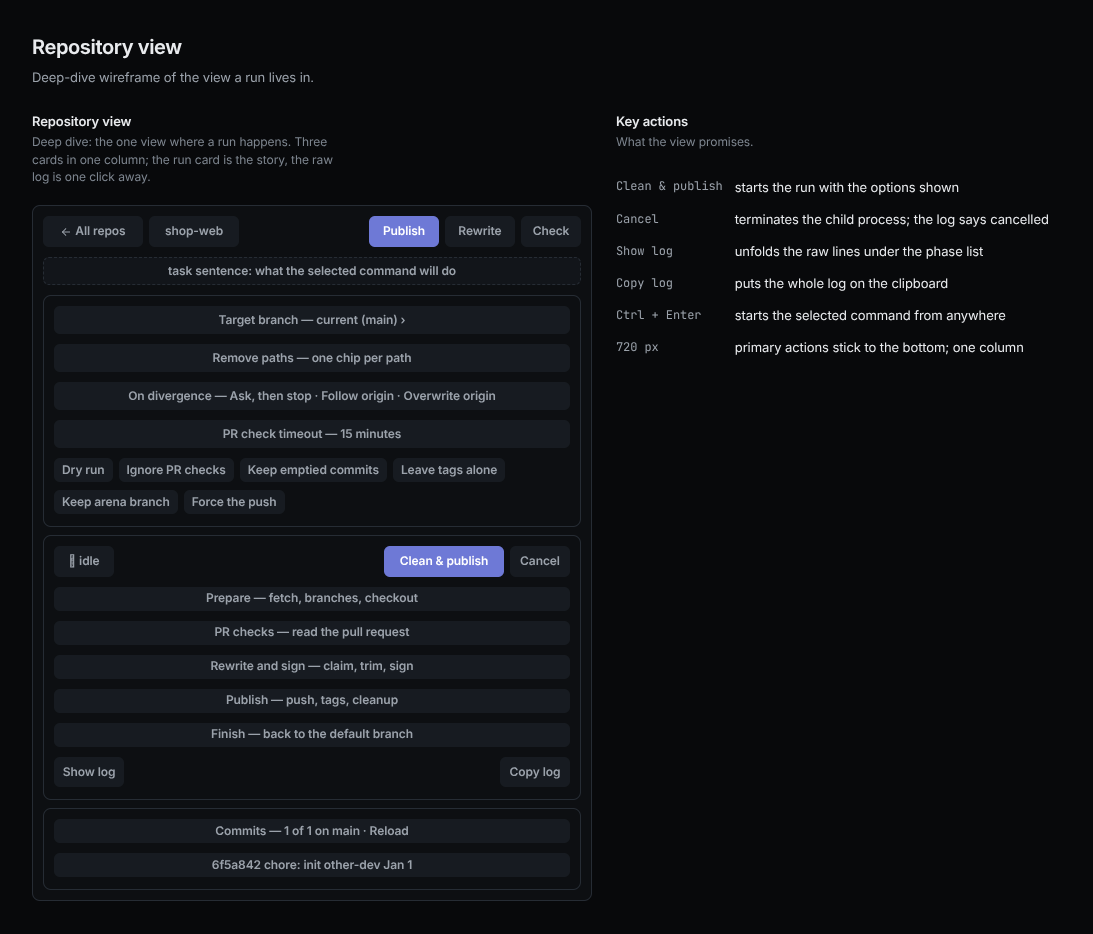
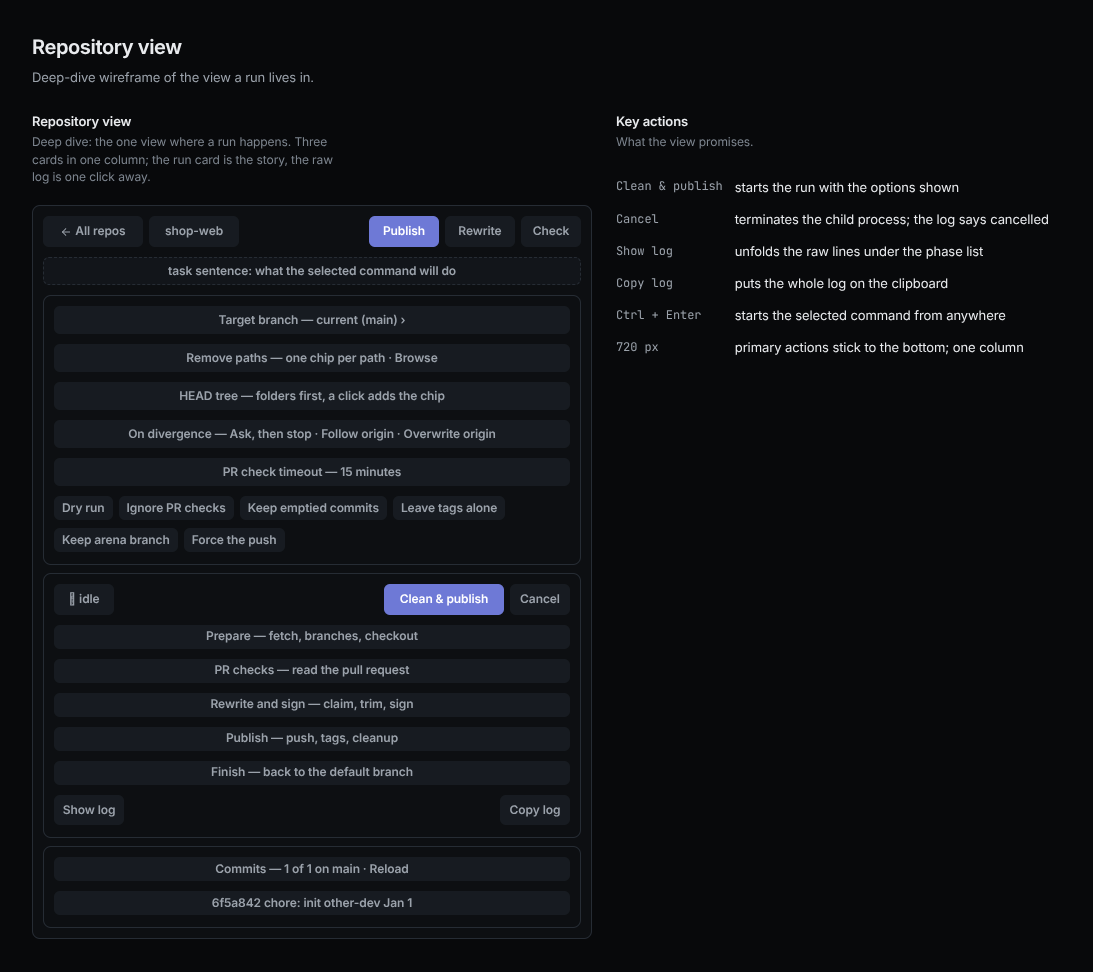
feat(ui): add a tree selector for Remove paths

diff --git a/ui/static/index.html b/ui/static/index.html
@@ -351,6 +351,20 @@
   .chip-x { display: inline-flex; align-items: center; gap: 6px; border: 1px solid var(--line-2); background: var(--surface-3); border-radius: 6px; padding: 2px 4px 2px 8px; font: var(--fs-1) var(--mono); }
   .chip-x button { border: 0; background: none; color: var(--dim); cursor: pointer; padding: 0 3px; font-size: var(--fs-3); line-height: 1; }
   .chip-x button:hover { color: var(--err); }
+  .link-btn { margin-left: auto; border: 0; background: none; padding: 0; color: var(--muted); font: inherit; font-size: var(--fs-1); cursor: pointer; }
+  .link-btn:hover, .link-btn[aria-expanded="true"] { color: var(--text); text-decoration: underline; text-underline-offset: 3px; }
+  /* the path tree: one level of the HEAD tree per request; a row click opens
+     a folder or selects a file, the trailing button selects either */
+  .tree { margin-top: 6px; padding: 4px; max-height: 260px; overflow: auto; border: 1px solid var(--line-2); border-radius: 8px; background: var(--surface-2); font: var(--fs-1) var(--mono); }
+  .tree-row { display: flex; align-items: center; gap: 6px; min-height: 28px; padding: 0 4px 0 calc(4px + (var(--depth) - 1) * 16px); border-radius: 6px; cursor: pointer; color: var(--text); }
+  .tree-row:hover { background: var(--surface-3); }
+  .tree-caret { width: 14px; display: inline-flex; color: var(--dim); transition: transform .12s; }
+  .tree-row[aria-expanded="true"] .tree-caret { transform: rotate(90deg); }
+  .tree-ico { display: inline-flex; color: var(--muted); }
+  .tree-name { overflow: hidden; text-overflow: ellipsis; white-space: nowrap; }
+  .tree-select { margin-left: auto; display: inline-flex; align-items: center; border: 0; background: none; padding: 2px 4px; border-radius: 6px; color: var(--dim); cursor: pointer; }
+  .tree-select:hover, .tree-select[aria-pressed="true"] { color: var(--accent-hi); }
+  .tree-empty { padding: 4px 8px; color: var(--dim); }
 
   .toggles { display: flex; flex-wrap: wrap; gap: 6px; }
   .toggle {
@@ -588,6 +602,8 @@
     .chip-x button { padding: 4px 6px; }
     .chips { min-height: 44px; }
     .chips input { height: 32px; }
+    .tree-row { min-height: 44px; }
+    .tree-select { min-width: 44px; min-height: 44px; justify-content: center; }
 
     /* one scale, enforced: 12 metadata, 13 note, 14 control, 15 body,
        16 field, 19 page title. Anything with its own desktop size is
@@ -671,10 +687,12 @@
               </div>
             </details>
             <div class="opt" id="opt-paths">
-              <div class="opt-label"><label for="pathin">Remove paths</label><span class="desc">git filter-repo, every ref</span></div>
+              <div class="opt-label"><label for="pathin">Remove paths</label><span class="desc">git filter-repo, every ref</span>
+                <button type="button" class="link-btn" id="browse" aria-expanded="false" aria-controls="tree">Browse</button></div>
               <div class="chips" id="chips">
                 <input id="pathin" placeholder="add a file or folder…" spellcheck="false" autocomplete="off" aria-label="Add a path to remove">
               </div>
+              <div class="tree" id="tree" role="tree" aria-label="Files at HEAD" hidden></div>
             </div>
             <div class="opt" id="opt-div">
               <div class="opt-label"><span class="lbl">On divergence</span><span class="desc">local vs origin</span></div>
@@ -810,6 +828,9 @@
     "arrow-up": svg(paths("m5 12 7-7 7 7", "M12 19V5")),
     "arrow-down": svg(paths("M12 5v14", "m19 12-7 7-7-7")),
     "chevron-right": svg(paths("m9 18 6-6-6-6")),
+    folder: svg(paths("M20 20a2 2 0 0 0 2-2V8a2 2 0 0 0-2-2h-7.9a2 2 0 0 1-1.69-.9L9.6 3.9A2 2 0 0 0 7.93 3H4a2 2 0 0 0-2 2v13a2 2 0 0 0 2 2Z")),
+    file: svg(paths("M6 22a2 2 0 0 1-2-2V4a2 2 0 0 1 2-2h8a2.4 2.4 0 0 1 1.704.706l3.588 3.588A2.4 2.4 0 0 1 20 8v12a2 2 0 0 1-2 2z", "M14 2v5a1 1 0 0 0 1 1h5")),
+    plus: svg(paths("M5 12h14", "M12 5v14")),
     check: svg(paths("M20 6 9 17l-5-5")),
     x: svg(paths("M18 6 6 18", "m6 6 12 12")),
     "triangle-alert": svg(paths("m21.73 18-8-14a2 2 0 0 0-3.48 0l-8 14A2 2 0 0 0 4 21h16a2 2 0 0 0 1.73-3", "M12 9v4", "M12 17h.01")),
@@ -1059,6 +1080,7 @@
     state.repo = repo;
     state.branch = "";
     state.paths = [];
+    closeTree();
     $("repo-title").textContent = repo.name;
     renderSidebar();
     renderBranchSelect();
@@ -1188,6 +1210,64 @@
         } }, icon("x")));
       box.insertBefore(chip, $("pathin"));
     }
+    for (const btn of $("tree").querySelectorAll(".tree-select")) {
+      const on = state.paths.includes(btn.closest(".tree-row").dataset.path);
+      btn.setAttribute("aria-pressed", String(on));
+      btn.replaceChildren(icon(on ? "check" : "plus"));
+    }
+  }
+
+  // -- Path tree: the HEAD tree of the open repository, one level per request
+  function closeTree() {
+    $("tree").hidden = true;
+    $("tree").replaceChildren();
+    $("browse").setAttribute("aria-expanded", "false");
+  }
+
+  function togglePath(path) {
+    state.paths = state.paths.includes(path) ? state.paths.filter((x) => x !== path) : [...state.paths, path];
+    renderPaths();
+    renderCommand();
+  }
+
+  async function treeLevel(container, rel, depth) {
+    const query = rel ? `?path=${encodeURIComponent(rel)}` : "";
+    const data = await api(`/api/repos/${state.repo.id}/tree${query}`);
+    container.replaceChildren(...data.entries.map((entry) =>
+      treeRow(entry, rel ? `${rel}/${entry.name}` : entry.name, depth)));
+    if (!data.entries.length) container.append(el("div", { class: "tree-empty" }, "empty"));
+    renderPaths();
+  }
+
+  function treeRow(entry, path, depth) {
+    const dir = entry.type === "dir";
+    const row = el("div", { class: "tree-row", role: "treeitem", tabindex: "0", "aria-level": String(depth),
+        "data-path": path, style: `--depth:${depth}`,
+        onkeydown: (e) => { if (e.key === "Enter" || e.key === " ") { e.preventDefault(); row.click(); } } },
+      el("span", { class: "tree-caret" }, dir ? icon("chevron-right") : ""),
+      el("span", { class: "tree-ico" }, icon(dir ? "folder" : "file")),
+      el("span", { class: "tree-name" }, entry.name),
+      el("button", { type: "button", class: "tree-select", "aria-label": `Remove ${path}`, "aria-pressed": "false",
+        onclick: (e) => { e.stopPropagation(); togglePath(path); } }, icon("plus")));
+    const node = el("div", { class: "tree-node" }, row);
+    if (!dir) {
+      row.onclick = () => togglePath(path);
+      return node;
+    }
+    let kids = null;
+    row.setAttribute("aria-expanded", "false");
+    row.onclick = async () => {
+      const open = row.getAttribute("aria-expanded") === "true";
+      row.setAttribute("aria-expanded", String(!open));
+      if (open) { kids.hidden = true; return; }
+      if (!kids) {
+        kids = el("div", { class: "tree-kids", role: "group" });
+        node.append(kids);
+        try { await treeLevel(kids, path, depth + 1); } catch (err) { toast(err.message); }
+      }
+      kids.hidden = false;
+    };
+    return node;
   }
 
   function payload() {
@@ -1938,6 +2018,15 @@
 
   $("branch").onchange = (ev) => { state.branch = ev.target.value; renderSidebar(); renderCommand(); };
 
+  $("browse").onclick = async () => {
+    const tree = $("tree");
+    const open = tree.hidden;
+    tree.hidden = !open;
+    $("browse").setAttribute("aria-expanded", String(open));
+    if (open && !tree.childElementCount) {
+      try { await treeLevel(tree, "", 1); } catch (err) { toast(err.message); closeTree(); }
+    }
+  };
   $("pathin").onkeydown = (ev) => {
     if (ev.key === "Enter" && ev.target.value.trim()) {
       ev.preventDefault();

diff --git a/scripts/demo.py b/scripts/demo.py
@@ -151,26 +151,26 @@ MAIN_HISTORY = [
   ("feat: project skeleton", "app.py", OTHER),
   ("docs: usage notes", "README.md", OTHER),
   ("feat: config loading", "config.py", ME),
-  ("test: config loading", "tests.py", ME),
+  ("test: config loading", "tests/test_config.py", ME),
   ("fix: empty config file", "config.py", OTHER),
   ("feat: command line entry", "cli.py", OTHER),
   ("refactor: split the modules", "app.py", ME),
-  ("ci: add the workflow", "ci.yml", OTHER),
+  ("ci: add the workflow", ".github/workflows/ci.yml", OTHER),
   ("fix: windows paths", "config.py", ME),
   ("feat: structured logging", "log.py", OTHER),
   ("docs: configuration reference", "README.md", OTHER),
   ("chore: bump the dependencies", "pyproject.toml", OTHER),
-  ("fix: flaky timing test", "tests.py", ME),
+  ("fix: flaky timing test", "tests/test_config.py", ME),
 ]
 # the arena branch: one session of mixed authorship, with bodies to trim
 BRANCH_HISTORY = [
   ("feat: external contribution\n\nbody the human wrote", "docs.md", OTHER),
   ("feat: agent work\n\nlong body that should be trimmed", "app.py", AGENT),
   ("fix: mine already fine", "app.py", ME),
-  ("chore: bot cleanup\n\nanother body to trim", "tests.py", BOT),
+  ("chore: bot cleanup\n\nanother body to trim", "tests/test_config.py", BOT),
   ("feat: checkout form\n\nscaffolded from the issue", "checkout.py", AGENT),
   ("fix: review feedback", "checkout.py", OTHER),
-  ("test: checkout form\n\ngenerated cases", "tests.py", AGENT),
+  ("test: checkout form\n\ngenerated cases", "tests/test_checkout.py", AGENT),
   ("style: format the module", "app.py", BOT),
   ("docs: checkout notes", "docs.md", ME),
 ]
@@ -178,7 +178,7 @@ BRANCH_HISTORY = [
 SECOND_HISTORY = [
   ("feat: retry policy\n\nagent notes", "retry.py", AGENT),
   ("fix: batch size off by one", "retry.py", OTHER),
-  ("test: retry policy\n\ngenerated cases", "tests.py", BOT),
+  ("test: retry policy\n\ngenerated cases", "tests/test_retry.py", BOT),
 ]
 SESSIONS = [BRANCH_HISTORY, SECOND_HISTORY]
 # what main gains after the session, when the repository asks for it
@@ -383,6 +383,7 @@ def make_origin(
   days = itertools.count()
 
   def commit(message: str, file: str, who: tuple[str, str]) -> None:
+    (work / file).parent.mkdir(parents=True, exist_ok=True)
     with (work / file).open("a") as fh:
       fh.write(message.splitlines()[0] + "\n")
     run("git", "add", file, cwd=work, env=env)

diff --git a/ui/server.py b/ui/server.py
@@ -581,6 +581,41 @@ def commits_report(repo: dict[str, Any], limit: int = 30) -> dict[str, Any]:
   }
 
 
+def tree_report(repo: dict[str, Any], rel: str) -> dict[str, Any] | None:
+  """One level of the HEAD tree under `rel`, directories first.
+
+  The path tree reads the clone, not GitHub, so a path repository works
+  too. HEAD is the tree the owner sees; a path that only old commits carried
+  stays a typed chip. None means git knows no such directory.
+  """
+  parts = [part for part in rel.split("/") if part]
+  if any(part in (".", "..") for part in parts) or "\x00" in rel:
+    raise ValueError(rel)
+  rel = "/".join(parts)
+  rc, out, _ = run_cmd(["git", "ls-tree", "-z", "-l", f"HEAD:{rel}"], cwd=repo["path"])
+  if rc != 0:
+    return None
+  types = {"tree": "dir", "blob": "file", "commit": "submodule"}
+  entries = []
+  for record in out.split("\0"):
+    if "\t" not in record:
+      continue
+    meta, name = record.split("\t", 1)
+    fields = meta.split()
+    if len(fields) != 4:
+      continue
+    mode, obj_type, _sha, size = fields
+    entries.append(
+      {
+        "name": name,
+        "type": "link" if mode == "120000" else types.get(obj_type, obj_type),
+        "size": int(size) if size.isdigit() else 0,
+      }
+    )
+  entries.sort(key=lambda e: (e["type"] != "dir", e["name"].lower()))
+  return {"path": rel, "entries": entries}
+
+
 def signing_report() -> dict[str, Any]:
   keys = secret_keys()
   git_name = global_config("user.name")
@@ -1111,6 +1146,16 @@ class Handler(BaseHTTPRequestHandler):
         except ValueError:
           limit = 30
         self._json(commits_report(repo, limit))
+      elif len(parts) == 4 and parts[:2] == ["api", "repos"] and parts[3] == "tree":
+        repo = self._repo(parts[2])
+        query = urllib.parse.parse_qs(
+          self.path.split("?", 1)[1] if "?" in self.path else ""
+        )
+        tree = tree_report(repo, query.get("path", [""])[0])
+        if tree is None:
+          self._error("no such directory", 404)
+        else:
+          self._json(tree)
       elif path == "/api/auth":
         self._json(auth_report())
       elif path == "/healthz":

diff --git a/tests/test_ui.py b/tests/test_ui.py
@@ -532,3 +532,44 @@ def test_the_commit_list_and_the_page_shell(ui: UI, ids: dict[str, str]) -> None
   assert not re.search(
     r'cmdpreview|id="cmdline"|id="emptystate"|oneclick-mobile|cmdswitch|data-cmd=', page
   ), "the removed command strip and switch"
+
+
+TREE_FILES = {"docs/guide.md": "# guide\n", "notes.txt": "notes\n"}
+
+
+def test_the_tree_route_lists_one_level_of_head(
+  ui: UI, world: World, ids: dict[str, str]
+) -> None:
+  for rel, text in TREE_FILES.items():
+    target = world.work / rel
+    target.parent.mkdir(parents=True, exist_ok=True)
+    target.write_text(text)
+  world.git("add", "-A")
+  world.commit(
+    "other-dev", "other@example.com", "2024-01-06T10:00:00+08:00", "docs: a tree\n"
+  )
+  repo = ids["repo"]
+
+  root = ui.get(f"/api/repos/{repo}/tree")
+  assert root["path"] == ""
+  names = [e["name"] for e in root["entries"]]
+  assert names.index("docs") < names.index("notes.txt"), "directories sort first"
+  types = {e["name"]: e["type"] for e in root["entries"]}
+  assert types["docs"] == "dir"
+  assert types["notes.txt"] == "file"
+  sizes = {e["name"]: e["size"] for e in root["entries"]}
+  assert sizes["notes.txt"] == len(TREE_FILES["notes.txt"])
+
+  docs = ui.get(f"/api/repos/{repo}/tree?path=/docs/")
+  assert docs["path"] == "docs"
+  assert [(e["name"], e["type"]) for e in docs["entries"]] == [("guide.md", "file")]
+
+  assert ui.status("GET", f"/api/repos/{repo}/tree?path=..") == 400
+  assert ui.status("GET", f"/api/repos/{repo}/tree?path=docs/../..") == 400
+  assert ui.status("GET", f"/api/repos/{repo}/tree?path=nope") == 404
+  assert ui.status("GET", f"/api/repos/{repo}/tree?path=notes.txt") == 404
+  assert ui.status("GET", "/api/repos/deadbeef1234/tree") == 404
+
+  page = ui.text("/")
+  assert 'id="browse"' in page
+  assert 'id="tree" role="tree"' in page

diff --git a/scripts/walk.py b/scripts/walk.py
@@ -370,6 +370,21 @@ def keyboard_backspace_removes_a_chip(w: Walker, demo: Demo) -> None:
 
 
 @step("desktop")
+def tree_selector_adds_a_folder_chip(w: Walker, demo: Demo) -> None:
+  w.click("#browse", 500)
+  assert w.count("#tree .tree-row") > 0
+  w.click(".tree-row[aria-expanded] >> nth=0", 500)
+  assert w.count(".tree-kids .tree-row") > 0
+  w.click(".tree-row[aria-expanded] >> nth=0 >> .tree-select", 300)
+  assert w.count(".chip-x") == 1
+  assert w.count('.tree-select[aria-pressed="true"]') == 1
+  w.click(".chip-x button >> nth=0", 300)
+  assert w.count('.tree-select[aria-pressed="true"]') == 0
+  w.click("#browse", 300)
+  assert w.page.is_hidden("#tree")
+
+
+@step("desktop")
 def timeout_input_drives_check_timeout(w: Walker, demo: Demo) -> None:
   w.page.fill("#timeout", "5")
   w.page.dispatch_event("#timeout", "input")

diff --git a/scripts/design_boards.py b/scripts/design_boards.py
@@ -318,7 +318,8 @@ def flow_board(_: dict[str, bytes]) -> str:
 def wireframe_board(_: dict[str, bytes]) -> str:
   options = (
     block("Target branch — current (main) ›", height=28)
-    + block("Remove paths — one chip per path", height=28)
+    + block("Remove paths — one chip per path · Browse", height=28)
+    + block("HEAD tree — folders first, a click adds the chip", height=28)
     + block(
       "On divergence — Ask, then stop · Follow origin · Overwrite origin", height=28
     )

diff --git a/docs/design.md b/docs/design.md
@@ -28,7 +28,7 @@ The one design record for the arena-cleanup web app. The sections follow the nem
 ## Screens and states
 
 - Dashboard: add bar, repository cards. Empty: a hint with the add command. Error: a banner above the cards. A card shows the branch, `N uncommitted` only when the clone is dirty, and the drift. The Remove X sits top right as a bare glyph. A red frame comes on hover, on press, and while armed.
-- Repository: options card, run card with the phase list and log, commits card. The page runs the full flow only; `strip` is a CLI command. Log rows show the clock of the browser. Remove on a card arms on the first click and deletes the URL clone on the second. States: idle, running, done, failed, cancelled. The sidebar ends with Reset to origin, a two-click button that checks out the default branch and resets it hard.
+- Repository: options card, run card with the phase list and log, commits card. The page runs the full flow only; `strip` is a CLI command. Browse under Remove paths opens the HEAD tree of the clone, one level per request. A click on a row or its plus adds the chip. Log rows show the clock of the browser. Remove on a card arms on the first click and deletes the URL clone on the second. States: idle, running, done, failed, cancelled. The sidebar ends with Reset to origin, a two-click button that checks out the default branch and resets it hard.
 - Settings: Identity (name, email, Save), GitHub sign-in and credential helper, signing cards, Claimed commits (two chip lists, Save). Below: About. Signing cards: gpg banner when gpg is missing, key list, create card, GitHub key steps. Disabled: Create key while gpg is missing. Error: the banner names the failed check. Each card loads on its own.
 - Offline: the service worker serves the shell; data requests fail with the normal error banner.
 - Loading and permission states: not run as separate checks.
@@ -73,6 +73,7 @@ The one design record for the arena-cleanup web app. The sections follow the nem
 - `sign-row`: label column of 120 px and a value column; on a phone the label takes a full row.
 - `sign-fields`: name and e-mail side by side; one column on a phone.
 - `banner`: `err`, `warn`, `ok` variants with an icon and one sentence of action.
+- `tree`: the path selector. Rows are `treeitem`s with `aria-level`; a folder row carries `aria-expanded` and loads its children on the first open. The trailing `tree-select` button toggles the path and reports `aria-pressed`. Rows and select buttons grow to 44 px on a phone.
 
 ## Accessibility and inclusion
 
@@ -125,4 +126,5 @@ The one design record for the arena-cleanup web app. The sections follow the nem
 - Accepted 2026-10-22: in a narrow cell a segmented control wraps whole buttons onto a second row, never words.
 - Accepted 2026-10-22: a shallow history. The dashboard is the root entry and a sub-view is at most one entry deep. One Back leaves a sub-view, the next one leaves the page.
 - Accepted 2026-10-22: no command switch on the repository page. A local rewrite without a push is a terminal task, so `strip` lives in the CLI alone.
+- Accepted 2026-10-22: a tree selector for Remove paths. It reads `git ls-tree` of HEAD in the clone, so it works for path repositories and never calls GitHub. File contents stay out; a path only old commits carried stays a typed chip.
 - Accepted 2026-10-22: the card Remove X moves from the action row to the top right corner. At rest it is a bare glyph, so the primary button stands alone. The red frame returns on hover, on press, and while armed.

diff --git a/CHANGELOG.md b/CHANGELOG.md
@@ -38,3 +38,5 @@ and the project uses [Semantic Versioning](https://semver.org/spec/v2.0.0.html).
 - Reset to origin in the repository sidebar: fetch, check out the default branch, and reset it hard. Untracked files stay.
 - The repository page runs the full flow only. The Rewrite locally switch is gone, and `strip` stays a CLI command.
 - The card Remove X sits top right as a bare glyph. A red frame comes on hover, on press, and while armed.
+- Browse under Remove paths opens the HEAD tree of the clone, one level per request. A click on a row or its plus adds the path chip; `GET /api/repos/<id>/tree?path=` serves the level.
+- The demo histories keep tests under `tests/` and the workflow under `.github/workflows/`, so the tree has folders to open.
